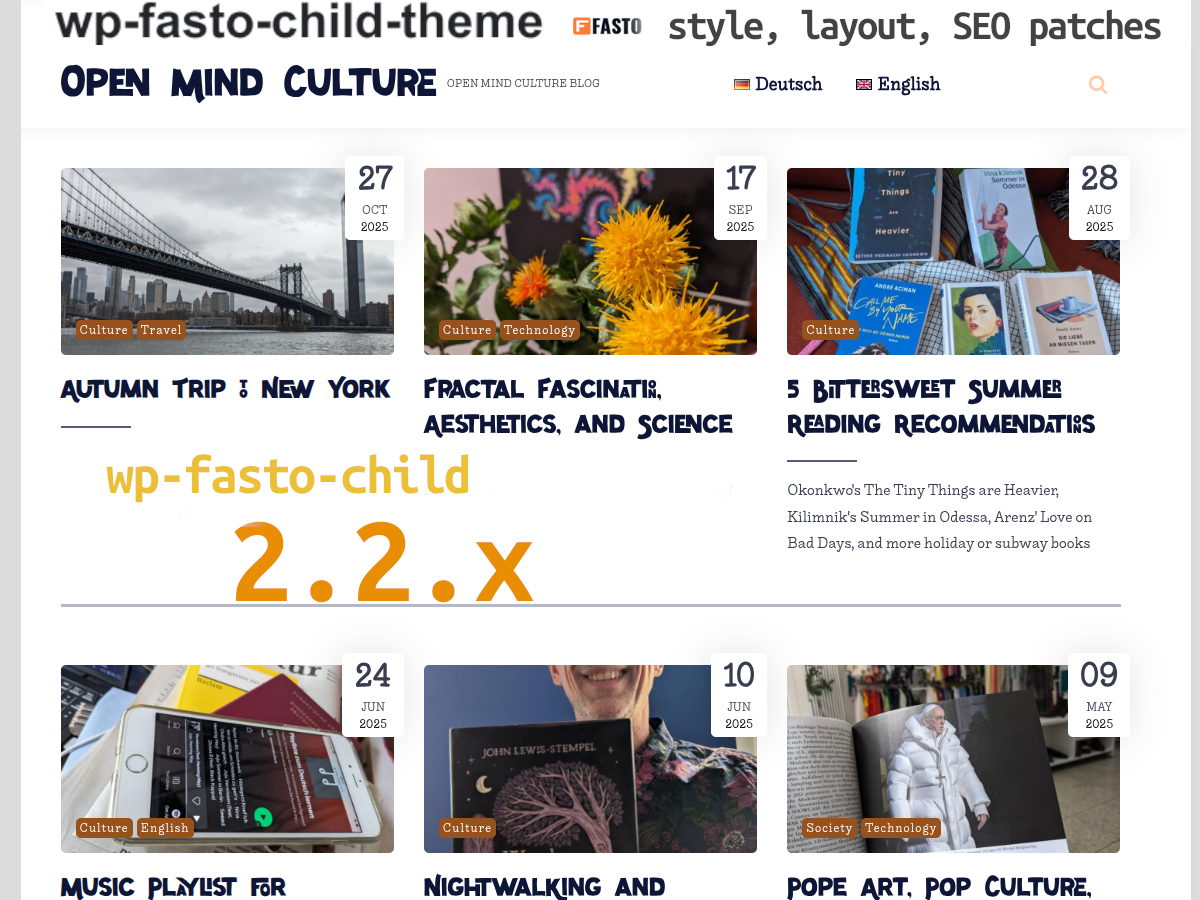
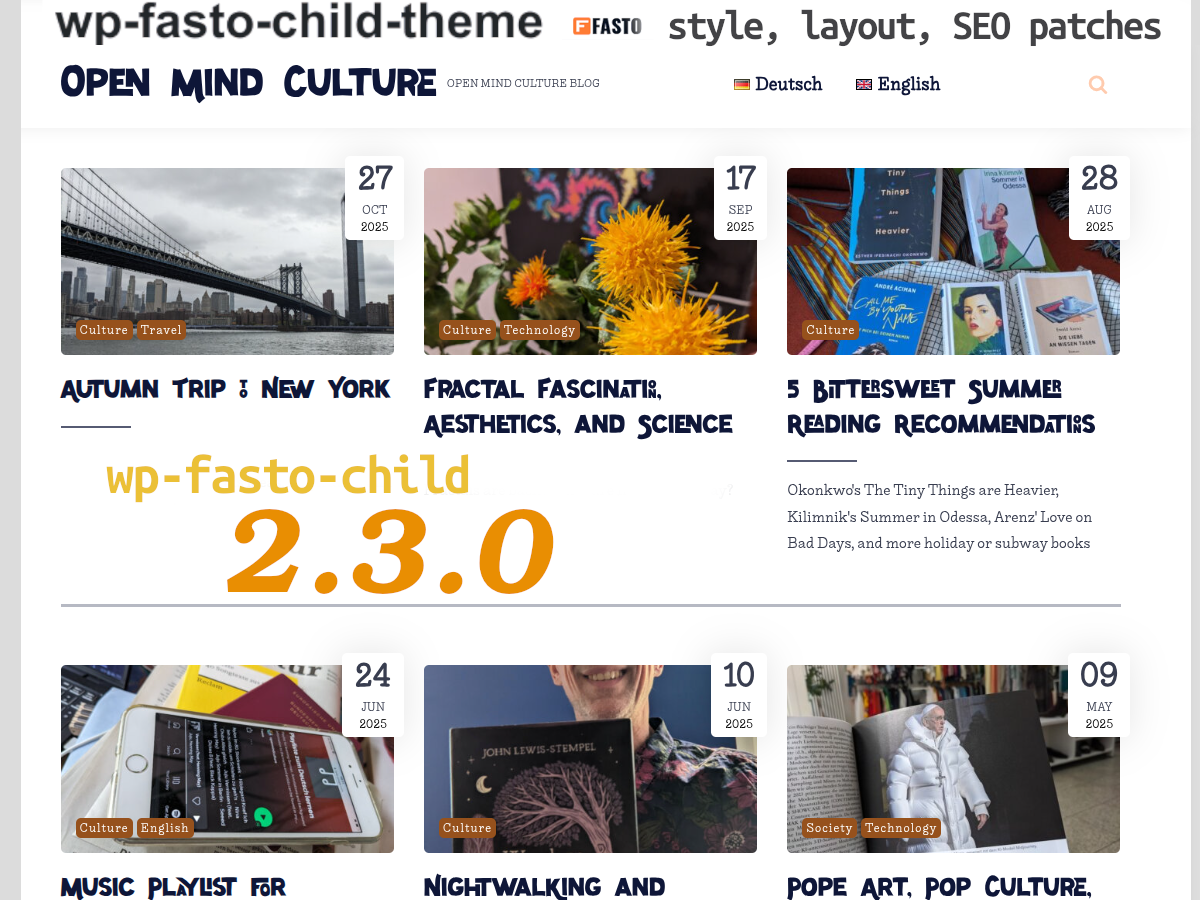
add class .omc-flex-gallery-3-3-24 with 24% width children

Changed region(s): [[0.185, 0.56, 0.4625, 0.6844]]

diff --git a/themes/fasto-child/style.css b/themes/fasto-child/style.css
@@ -5,7 +5,7 @@
  Author:       Ingo Steinke
  Author URI:   https://www.ingo-steinke.com/
  Template:     fasto
- Version:      2.2.5
+ Version:      2.3.0
  License:      GNU General Public License v2 or later (except for optional non-free web fonts)
  License URI:  http://www.gnu.org/licenses/gpl-2.0.html
  Tags:         Tags: 404, inclusive, footer, search, ux, usability, accessibility
@@ -375,7 +375,12 @@ ul.social-share {
 	align-content: center;
 }
 
+.omc-flex-gallery-3-3-24 > * {
+	flex-basis: 24%;
+}
+
 @media (max-width: 1300px) {
+	.omc-flex-gallery-3-3-24 > *,
 	.omc-flex-gallery > * {
 		flex-basis: 100% !important;
 	}
